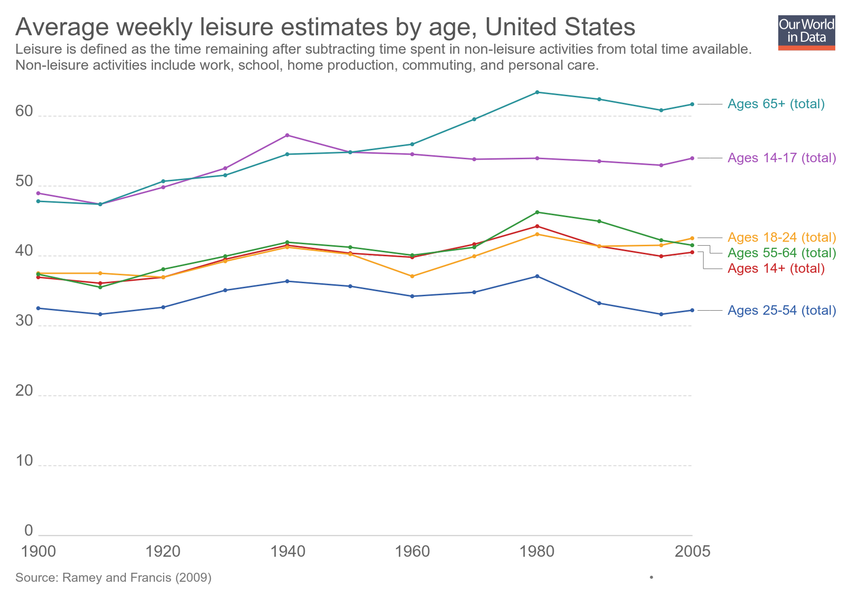
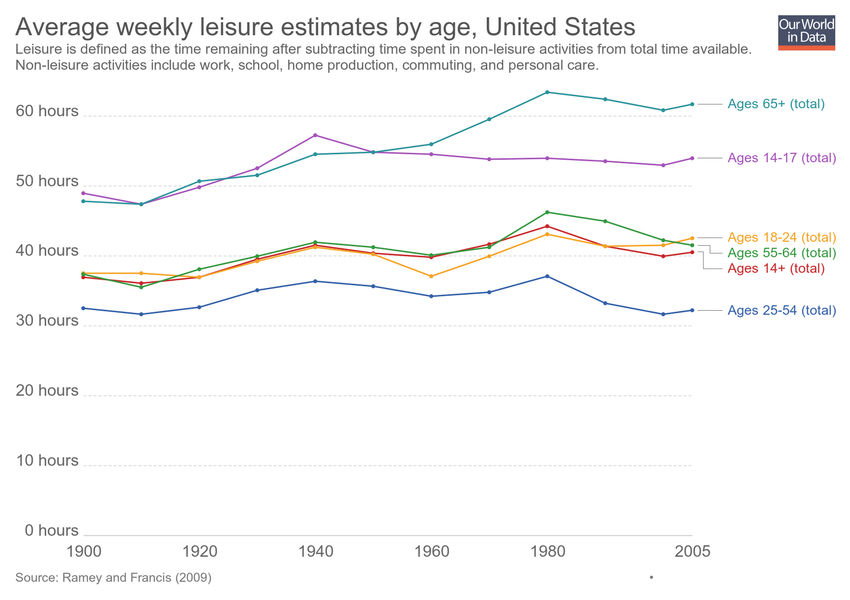
Updating chart average-weekly-leisure-estimates-by-age-united-states

diff --git a/grapher/weekly-home-production-time-by-demographic-group-united-states.html b/grapher/weekly-home-production-time-by-demographic-group-united-states.html
@@ -1,4 +1,4 @@
-<!doctype html><html><head><meta name="viewport" content="width=device-width, initial-scale=1" /><title>Weekly home production time by age group, United States - Our World in Data</title><meta name="description" content="Time spent in home production activities by age group. Home production includes purchasing goods and services, care of children and adults, general cleaning, care and repair of the house and grounds. preparing and clearing food, and making, mending, and laundering clothing. " /><link rel="canonical" href="https://ourworldindata.org/grapher/weekly-home-production-time-by-demographic-group-united-states" /><meta property="fb:app_id" content="1149943818390250" /><meta property="og:url" content="https://ourworldindata.org/grapher/weekly-home-production-time-by-demographic-group-united-states" /><meta property="og:title" content="Weekly home production time by age group, United States" /><meta property="og:description" content="Time spent in home production activities by age group. Home production includes purchasing goods and services, care of children and adults, general cleaning, care and repair of the house and grounds. preparing and clearing food, and making, mending, and laundering clothing. " /><meta property="og:image" content="https://ourworldindata.org/grapher/exports/weekly-home-production-time-by-demographic-group-united-states.png?v=4" /><meta property="og:image:width" content="850" /><meta property="og:image:height" content="600" /><meta property="og:site_name" content="Our World in Data" /><meta name="twitter:card" content="summary_large_image" /><meta name="twitter:site" content="@OurWorldInData" /><meta name="twitter:creator" content="@OurWorldInData" /><meta name="twitter:title" content="Weekly home production time by age group, United States" /><meta name="twitter:description" content="Time spent in home production activities by age group. Home production includes purchasing goods and services, care of children and adults, general cleaning, care and repair of the house and grounds. preparing and clearing food, and making, mending, and laundering clothing. " /><meta name="twitter:image" content="https://ourworldindata.org/grapher/exports/weekly-home-production-time-by-demographic-group-united-states.png?v=4" /><style>
+<!doctype html><html><head><meta name="viewport" content="width=device-width, initial-scale=1" /><title>Weekly home production time by age group, United States - Our World in Data</title><meta name="description" content="Time spent in home production activities by age group. Home production includes purchasing goods and services, care of children and adults, general cleaning, care and repair of the house and grounds. preparing and clearing food, and making, mending, and laundering clothing. " /><link rel="canonical" href="https://ourworldindata.org/grapher/weekly-home-production-time-by-demographic-group-united-states" /><meta property="fb:app_id" content="1149943818390250" /><meta property="og:url" content="https://ourworldindata.org/grapher/weekly-home-production-time-by-demographic-group-united-states" /><meta property="og:title" content="Weekly home production time by age group, United States" /><meta property="og:description" content="Time spent in home production activities by age group. Home production includes purchasing goods and services, care of children and adults, general cleaning, care and repair of the house and grounds. preparing and clearing food, and making, mending, and laundering clothing. " /><meta property="og:image" content="https://ourworldindata.org/grapher/exports/weekly-home-production-time-by-demographic-group-united-states.png?v=5" /><meta property="og:image:width" content="850" /><meta property="og:image:height" content="600" /><meta property="og:site_name" content="Our World in Data" /><meta name="twitter:card" content="summary_large_image" /><meta name="twitter:site" content="@OurWorldInData" /><meta name="twitter:creator" content="@OurWorldInData" /><meta name="twitter:title" content="Weekly home production time by age group, United States" /><meta name="twitter:description" content="Time spent in home production activities by age group. Home production includes purchasing goods and services, care of children and adults, general cleaning, care and repair of the house and grounds. preparing and clearing food, and making, mending, and laundering clothing. " /><meta name="twitter:image" content="https://ourworldindata.org/grapher/exports/weekly-home-production-time-by-demographic-group-united-states.png?v=5" /><style>
         html, body {
             height: 100%;
             margin: 0;
@@ -20,8 +20,8 @@
         }
     </style><noscript><style>
                     figure { display: none !important; }
-                </style></noscript><link rel="stylesheet" href="https://ourworldindata.org/grapher/assets/commons.bundle.e61261d2881056c44b1d.css" /><link rel="preload" href="/grapher/data/variables/97538.json?v=4" as="fetch" crossorigin /></head><body class="singleChart"><figure data-grapher-src="/grapher/weekly-home-production-time-by-demographic-group-united-states"></figure><noscript id="fallback"><img src="/grapher/exports/weekly-home-production-time-by-demographic-group-united-states.svg" /><p>Interactive visualization requires JavaScript</p></noscript><script src="https://cdn.polyfill.io/v2/polyfill.min.js?features=es6,fetch"></script><script src="https://ourworldindata.org/grapher/assets/commons.bundle.e61261d2881056c44b1d.js"></script><script src="https://ourworldindata.org/grapher/assets/charts.bundle.e61261d2881056c44b1d.js"></script><script>
-        var jsonConfig = {"id":2826,"map":{"projection":"World","colorSchemeLabels":[],"colorSchemeValues":[],"customNumericColors":[],"customCategoryColors":{},"customCategoryLabels":{},"customHiddenCategories":{}},"tab":"chart","slug":"weekly-home-production-time-by-demographic-group-united-states","type":"LineChart","title":"Weekly home production time by age group, United States","xAxis":{"scaleType":"linear"},"yAxis":{"min":0,"scaleType":"linear"},"version":4,"subtitle":"Time spent in home production activities by age group. Home production includes purchasing goods and services, care of children and adults, general cleaning, care and repair of the house and grounds. preparing and clearing food, and making, mending, and laundering clothing. ","hasMapTab":false,"stackMode":"absolute","dimensions":[{"display":{},"property":"y","variableId":97538}],"hasChartTab":true,"isPublished":true,"selectedData":[{"index":0,"entityId":37579},{"index":0,"entityId":37578},{"index":0,"entityId":37580}],"addCountryMode":"add-country"};
+                </style></noscript><link rel="stylesheet" href="https://ourworldindata.org/grapher/assets/commons.bundle.e61261d2881056c44b1d.css" /><link rel="preload" href="/grapher/data/variables/97538.json?v=5" as="fetch" crossorigin /></head><body class="singleChart"><figure data-grapher-src="/grapher/weekly-home-production-time-by-demographic-group-united-states"></figure><noscript id="fallback"><img src="/grapher/exports/weekly-home-production-time-by-demographic-group-united-states.svg" /><p>Interactive visualization requires JavaScript</p></noscript><script src="https://cdn.polyfill.io/v2/polyfill.min.js?features=es6,fetch"></script><script src="https://ourworldindata.org/grapher/assets/commons.bundle.e61261d2881056c44b1d.js"></script><script src="https://ourworldindata.org/grapher/assets/charts.bundle.e61261d2881056c44b1d.js"></script><script>
+        var jsonConfig = {"id":2826,"map":{"projection":"World","colorSchemeLabels":[],"colorSchemeValues":[],"customNumericColors":[],"customCategoryColors":{},"customCategoryLabels":{},"customHiddenCategories":{}},"tab":"chart","slug":"weekly-home-production-time-by-demographic-group-united-states","type":"LineChart","title":"Weekly home production time by age group, United States","xAxis":{"scaleType":"linear"},"yAxis":{"min":0,"scaleType":"linear"},"version":5,"subtitle":"Time spent in home production activities by age group. Home production includes purchasing goods and services, care of children and adults, general cleaning, care and repair of the house and grounds. preparing and clearing food, and making, mending, and laundering clothing. ","hasMapTab":false,"stackMode":"absolute","dimensions":[{"display":{"shortUnit":"hours"},"property":"y","variableId":97538}],"hasChartTab":true,"isPublished":true,"selectedData":[{"index":0,"entityId":37579},{"index":0,"entityId":37578},{"index":0,"entityId":37580}],"addCountryMode":"add-country"};
         var figure = document.getElementsByTagName("figure")[0];
         try {
             window.App = {};

diff --git a/grapher/average-weekly-leisure-estimates-by-age-united-states.html b/grapher/average-weekly-leisure-estimates-by-age-united-states.html
@@ -1,4 +1,4 @@
-<!doctype html><html><head><meta name="viewport" content="width=device-width, initial-scale=1" /><title>Average weekly leisure estimates by age, United States - Our World in Data</title><meta name="description" content="Leisure is defined as the time remaining after subtracting time spent in non-leisure activities from total time available. Non-leisure activities include work, school, home production, commuting, and personal care." /><link rel="canonical" href="https://ourworldindata.org/grapher/average-weekly-leisure-estimates-by-age-united-states" /><meta property="fb:app_id" content="1149943818390250" /><meta property="og:url" content="https://ourworldindata.org/grapher/average-weekly-leisure-estimates-by-age-united-states" /><meta property="og:title" content="Average weekly leisure estimates by age, United States" /><meta property="og:description" content="Leisure is defined as the time remaining after subtracting time spent in non-leisure activities from total time available. Non-leisure activities include work, school, home production, commuting, and personal care." /><meta property="og:image" content="https://ourworldindata.org/grapher/exports/average-weekly-leisure-estimates-by-age-united-states.png?v=1" /><meta property="og:image:width" content="850" /><meta property="og:image:height" content="600" /><meta property="og:site_name" content="Our World in Data" /><meta name="twitter:card" content="summary_large_image" /><meta name="twitter:site" content="@OurWorldInData" /><meta name="twitter:creator" content="@OurWorldInData" /><meta name="twitter:title" content="Average weekly leisure estimates by age, United States" /><meta name="twitter:description" content="Leisure is defined as the time remaining after subtracting time spent in non-leisure activities from total time available. Non-leisure activities include work, school, home production, commuting, and personal care." /><meta name="twitter:image" content="https://ourworldindata.org/grapher/exports/average-weekly-leisure-estimates-by-age-united-states.png?v=1" /><style>
+<!doctype html><html><head><meta name="viewport" content="width=device-width, initial-scale=1" /><title>Average weekly leisure estimates by age, United States - Our World in Data</title><meta name="description" content="Leisure is defined as the time remaining after subtracting time spent in non-leisure activities from total time available. Non-leisure activities include work, school, home production, commuting, and personal care." /><link rel="canonical" href="https://ourworldindata.org/grapher/average-weekly-leisure-estimates-by-age-united-states" /><meta property="fb:app_id" content="1149943818390250" /><meta property="og:url" content="https://ourworldindata.org/grapher/average-weekly-leisure-estimates-by-age-united-states" /><meta property="og:title" content="Average weekly leisure estimates by age, United States" /><meta property="og:description" content="Leisure is defined as the time remaining after subtracting time spent in non-leisure activities from total time available. Non-leisure activities include work, school, home production, commuting, and personal care." /><meta property="og:image" content="https://ourworldindata.org/grapher/exports/average-weekly-leisure-estimates-by-age-united-states.png?v=2" /><meta property="og:image:width" content="850" /><meta property="og:image:height" content="600" /><meta property="og:site_name" content="Our World in Data" /><meta name="twitter:card" content="summary_large_image" /><meta name="twitter:site" content="@OurWorldInData" /><meta name="twitter:creator" content="@OurWorldInData" /><meta name="twitter:title" content="Average weekly leisure estimates by age, United States" /><meta name="twitter:description" content="Leisure is defined as the time remaining after subtracting time spent in non-leisure activities from total time available. Non-leisure activities include work, school, home production, commuting, and personal care." /><meta name="twitter:image" content="https://ourworldindata.org/grapher/exports/average-weekly-leisure-estimates-by-age-united-states.png?v=2" /><style>
         html, body {
             height: 100%;
             margin: 0;
@@ -20,8 +20,8 @@
         }
     </style><noscript><style>
                     figure { display: none !important; }
-                </style></noscript><link rel="stylesheet" href="https://ourworldindata.org/grapher/assets/commons.bundle.e61261d2881056c44b1d.css" /><link rel="preload" href="/grapher/data/variables/97539.json?v=1" as="fetch" crossorigin /></head><body class="singleChart"><figure data-grapher-src="/grapher/average-weekly-leisure-estimates-by-age-united-states"></figure><noscript id="fallback"><img src="/grapher/exports/average-weekly-leisure-estimates-by-age-united-states.svg" /><p>Interactive visualization requires JavaScript</p></noscript><script src="https://cdn.polyfill.io/v2/polyfill.min.js?features=es6,fetch"></script><script src="https://ourworldindata.org/grapher/assets/commons.bundle.e61261d2881056c44b1d.js"></script><script src="https://ourworldindata.org/grapher/assets/charts.bundle.e61261d2881056c44b1d.js"></script><script>
-        var jsonConfig = {"map":{"projection":"World","colorSchemeLabels":[],"colorSchemeValues":[],"customNumericColors":[],"customCategoryColors":{},"customCategoryLabels":{},"customHiddenCategories":{}},"tab":"chart","slug":"average-weekly-leisure-estimates-by-age-united-states","type":"LineChart","title":"Average weekly leisure estimates by age, United States","xAxis":{"scaleType":"linear"},"yAxis":{"min":0,"scaleType":"linear"},"version":1,"subtitle":"Leisure is defined as the time remaining after subtracting time spent in non-leisure activities from total time available. Non-leisure activities include work, school, home production, commuting, and personal care.","hasMapTab":false,"stackMode":"absolute","dimensions":[{"display":{},"property":"y","variableId":97539}],"entityType":"data","isAutoSlug":true,"hasChartTab":true,"isPublished":true,"selectedData":[{"index":0,"entityId":37580},{"index":0,"entityId":37583},{"index":0,"entityId":37587},{"index":0,"entityId":37591},{"index":0,"entityId":37595},{"index":0,"entityId":37598}],"addCountryMode":"add-country","hideTitleAnnotation":true,"id":2827};
+                </style></noscript><link rel="stylesheet" href="https://ourworldindata.org/grapher/assets/commons.bundle.e61261d2881056c44b1d.css" /><link rel="preload" href="/grapher/data/variables/97539.json?v=2" as="fetch" crossorigin /></head><body class="singleChart"><figure data-grapher-src="/grapher/average-weekly-leisure-estimates-by-age-united-states"></figure><noscript id="fallback"><img src="/grapher/exports/average-weekly-leisure-estimates-by-age-united-states.svg" /><p>Interactive visualization requires JavaScript</p></noscript><script src="https://cdn.polyfill.io/v2/polyfill.min.js?features=es6,fetch"></script><script src="https://ourworldindata.org/grapher/assets/commons.bundle.e61261d2881056c44b1d.js"></script><script src="https://ourworldindata.org/grapher/assets/charts.bundle.e61261d2881056c44b1d.js"></script><script>
+        var jsonConfig = {"id":2827,"map":{"projection":"World","colorSchemeLabels":[],"colorSchemeValues":[],"customNumericColors":[],"customCategoryColors":{},"customCategoryLabels":{},"customHiddenCategories":{}},"tab":"chart","slug":"average-weekly-leisure-estimates-by-age-united-states","type":"LineChart","title":"Average weekly leisure estimates by age, United States","xAxis":{"scaleType":"linear"},"yAxis":{"min":0,"scaleType":"linear"},"version":2,"subtitle":"Leisure is defined as the time remaining after subtracting time spent in non-leisure activities from total time available. Non-leisure activities include work, school, home production, commuting, and personal care.","hasMapTab":false,"stackMode":"absolute","dimensions":[{"display":{"shortUnit":"hours"},"property":"y","variableId":97539}],"entityType":"data","hasChartTab":true,"isPublished":true,"selectedData":[{"index":0,"entityId":37580},{"index":0,"entityId":37583},{"index":0,"entityId":37587},{"index":0,"entityId":37591},{"index":0,"entityId":37595},{"index":0,"entityId":37598}],"addCountryMode":"add-country","hideTitleAnnotation":true};
         var figure = document.getElementsByTagName("figure")[0];
         try {
             window.App = {};
